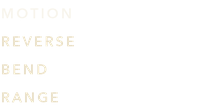
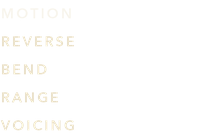
Tidepools: a Chord engine, which is what the pitch tracking was for
Play one note and it answers with a voicing: each grain is joined by two to
four more at the thirds above it. Because Tidepools knows both what you
played and what key you are in, those are the thirds the key actually has -
major on the first, fourth and fifth degrees, minor on the second, third
and sixth, diminished on the seventh. A pedal cannot do this, because it
never knows what you played.

Verified against C major: C, F and G answer major; D, E and A answer minor;
B answers diminished, all to within a hundredth of a semitone. With no
scale chosen it stacks a plain major seventh instead, so the engine still
does something musical on a drum loop.

Scatter becomes Strum - how far apart in time the notes arrive, from a
block chord to a strum across 120 ms - and Motion becomes Voicing: two
notes, three, four, and past about two thirds the upper notes open an
octave. The GRAINS page renames both as you switch, as it does for the
other engines.

Grains gained a `wait` so a voice can hold off before sounding, which is
what makes a strum rather than a chord with the notes in the wrong places.
Chord also spawns at a lower rate than a wash does, since every spawn is
two to four grains rather than one.

Appending a fifth mode is safe for anything already saved: the SDK's state
format stores both a parameter's knob position and its value, and prefers
the position only while the two still agree. Grow a choice list and they do
[…]

diff --git a/Tidepools/src/Tidepools.cpp b/Tidepools/src/Tidepools.cpp
@@ -93,7 +93,7 @@ enum ParamIndex
     kNumParams
 };
 
-enum Mode   { kCloud = 0, kBlocks, kGlide, kBubbles };
+enum Mode   { kCloud = 0, kBlocks, kGlide, kBubbles, kChord };
 enum Listen { kListenOff = 0, kListenAuto, kListenHold };
 enum Answer { kAnswerNow = 0, kAnswerBeat, kAnswerBar };
 enum KeyMode { kKeyFixed = 0, kKeyFollow };
@@ -159,6 +159,7 @@ struct Grain
     double rate = 1.0;         // buffer samples consumed per output sample (negative = reverse)
     double rateInc = 0.0;      // added to rate every sample: Glide's bend
     int    age = 0, length = 1;
+    int    wait = 0;           // samples to hold off before sounding: Chord's strum
     float  gainL = 0.5f, gainR = 0.5f;
     float  amp = 1.0f;
     bool   filtered = false;   // Bubbles
@@ -231,7 +232,8 @@ public:
         // Parameter 0 is nudged by the host on every load, so it has to be harmless.
         addParam(mpc::floatParam ("out",      "Output",   -30.0f, 6.0f,   0.0f,  "dB", 1));
         addParam(mpc::floatParam ("mix",      "Mix",       0.0f, 100.0f, 50.0f, "%", 0));
-        addParam(mpc::choiceParam("mode",     "Mode",     { "Cloud", "Blocks", "Glide", "Bubbles" }, kCloud));
+        addParam(mpc::choiceParam("mode",     "Mode",     { "Cloud", "Blocks", "Glide", "Bubbles",
+                                                            "Chord" }, kCloud));
         addParam(mpc::floatParam ("activity", "Activity",  0.0f, 100.0f, 50.0f, "%", 0));
         addParam(mpc::floatParam ("shape",    "Shape",     0.0f, 100.0f, 45.0f, "%", 0));
         addParam(mpc::floatParam ("scatter",  "Scatter",   0.0f, 100.0f, 35.0f, "%", 0));
@@ -376,7 +378,7 @@ public:
         output_.setTarget(dbToGain(get(kOutput)));
         input_.setTarget(dbToGain(get(kInput)));
 
-        const int   mode     = clampi(getInt(kMode), 0, 3);
+        const int   mode     = clampi(getInt(kMode), 0, 4);
         const int   listen   = clampi(getInt(kListen), 0, 2);
         const int   answerAt = clampi(getInt(kAnswer), 0, 2);
         const float activity = get(kActivity) * 0.01f;
@@ -534,6 +536,7 @@ public:
             for (Grain& gr : grain_)
             {
                 if (!gr.active) continue;
+                if (gr.wait > 0) { --gr.wait; continue; }
                 float s = readBuffer(0, gr.pos);
                 float sR = readBuffer(1, gr.pos);
                 if (gr.filtered)
@@ -703,7 +706,9 @@ private:
         // A bubble is a distinct pitched blip rather than a grain of wash, so the ear counts them
         // one by one and the same Activity reads as far busier. Half the density keeps the knob
         // meaning roughly the same thing whichever engine is running.
-        const float top = (mode == kBubbles) ? 38.0f : 86.0f;
+        // Bubbles are counted one by one by the ear, and every Chord spawn is two to four grains
+        // at once: both want a lower ceiling than a wash does.
+        const float top = (mode == kBubbles) ? 38.0f : (mode == kChord ? 26.0f : 86.0f);
         // 4 grains a second at the bottom of Activity, about 90 at the top - 42 for Bubbles.
         const float density = 4.0f + activity * activity * top;
         return (int)clampf(sr_ / density, 16.0f, sr_);
@@ -877,14 +882,7 @@ private:
     void spawnGrain(int mode, float shape, float scatter, float motion,
                     float spread, double baseRate, int64_t phraseLen)
     {
-        Grain* g = nullptr;
-        int oldest = -1;
-        for (int i = 0; i < kMaxGrains; ++i)
-        {
-            if (!grain_[i].active) { g = &grain_[i]; break; }
-            if (oldest < 0 || grain_[i].age > grain_[oldest].age) oldest = i;
-        }
-        if (g == nullptr) g = &grain_[oldest];   // steal the one furthest through its life
+        Grain* g = takeGrain();
 
         // Reply nudges the dice every pass, so the next answer is a variation, not a copy.
         const float drift = get(kReply) * 0.01f * (float)passIndex_ * 0.25f;
@@ -950,6 +948,14 @@ private:
                 filtered = true;
                 break;
             }
+            case kChord:
+            {
+                // One slice of the phrase, played as a voicing. Scatter is how far the grain
+                // wanders; the chord itself is built in spawnChordVoices below.
+                length = grainLength(shape);
+                start = (double)ansStart_ + (double)patternFloat() * (double)phraseLen * jitter * 0.6;
+                break;
+            }
             default:   // Cloud
             {
                 length = grainLength(shape);
@@ -979,7 +985,66 @@ private:
         g->gainR = gr;
         g->amp = amp;
         g->filtered = filtered;
+        g->wait = 0;
         if (!filtered) g->filtGain = 1.0f;
+        if (mode == kChord) spawnChordVoices(*g, motion, scatter, spread);
+    }
+
+    Grain* takeGrain()
+    {
+        int oldest = -1;
+        for (int i = 0; i < kMaxGrains; ++i)
+        {
+            if (!grain_[i].active) return &grain_[i];
+            if (oldest < 0 || grain_[i].age > grain_[oldest].age) oldest = i;
+        }
+        return &grain_[oldest];   // steal the one furthest through its life
+    }
+
+    // The ratio for the v-th note of a voicing above whatever the answer is already playing.
+    // With a scale and a detected pitch these are real diatonic thirds - the chord the key has on
+    // that degree, major or minor as it falls. Without either, a plain stacked major seventh, so
+    // the engine still does something musical on a drum loop.
+    double chordVoiceRatio(int v, float motion) const
+    {
+        const int octave = (motion > 0.66f && v >= 2) ? 12 : 0;   // wide voicings open upward
+        const int si = clampi(getInt(kScale), 0, kNumScales - 1);
+        if (si == 0 || heardMidi_ < 0.0f)
+        {
+            constexpr int semis[4] = { 0, 4, 7, 11 };
+            return (double)semitonesToRatio((float)(semis[clampi(v, 0, 3)] + octave));
+        }
+        const ScaleDef& sc = kScales[si];
+        const int root = scaleRoot();
+        const float rel = heardMidi_ - (float)root;
+        const float oct = std::floor(rel / 12.0f);
+        const int srcDeg = degreeOf(sc, rel - oct * 12.0f);
+        const int deg = srcDeg + 2 * v;            // thirds: every other degree of the scale
+        const int shift = (int)std::floor((float)deg / (float)sc.count);
+        const int within = deg - shift * sc.count;
+        const float target = (float)root + (oct + (float)shift) * 12.0f + (float)sc.notes[within];
+        const float source = (float)root + oct * 12.0f + (float)sc.notes[srcDeg];
+        return (double)semitonesToRatio(target - source + (float)octave);
+    }
+
+    // Chord spawns the rest of its voicing alongside the grain just made: same slice of the
+    // phrase, different transpositions, optionally spread in time so the chord is strummed.
+    void spawnChordVoices(const Grain& root, float motion, float scatter, float spread)
+    {
+        const int voices = clampi(2 + (int)std::lround(motion * 2.0f), 2, 4);
+        const int strum = (int)(scatter * 0.12f * sr_);
+        for (int v = 1; v < voices; ++v)
+        {
+            Grain* g = takeGrain();
+            *g = root;
+            g->rate = root.rate * chordVoiceRatio(v, motion);
+            g->rateInc = 0.0;
+            g->wait = strum * v;
+            g->age = 0;
+            const float pan = ((float)v / (float)(voices - 1) - 0.5f) * 2.0f * spread;
+            equalPowerPan(clampf(pan, -1.0f, 1.0f), g->gainL, g->gainR);
+            g->active = true;
+        }
     }
 
     int grainLength(float shape) const
@@ -1051,6 +1116,9 @@ private:
                                   kListenOff,  220, kAnswerNow,  25,  0, 0, 0,  0, 85, 0, 0 });
         prog("Freeze and Play", { 0, 60, kBubbles, 65, 35, 45, 50, 1, T16, 60, 10000, 50, 6.0f,
                                   kListenHold, 220, kAnswerNow,  30,  0, 2, 0,  0, 90, 1, 0 });
+        // Chord wants a scale to be worth anything, so this one arrives with the key already set.
+        prog("One Finger Chords", { 0, 55, kChord, 40, 55, 25, 50, 1, T4,  45, 8000, 35, 4.0f,
+                                  kListenAuto, 260, kAnswerBar,  30,  0, 1, 0, 55, 70, 0, 0 });
     }
 
     float timeFor(int division) const

diff --git a/Tidepools/art/make_skin.py b/Tidepools/art/make_skin.py
@@ -46,7 +46,7 @@ P = dict(out=0, mix=1, mode=2, activity=3, shape=4, scatter=5, motion=6, sync=7,
          tone=10, space=11, decay=12, listen=13, gap=14, answer=15, reply=16, interval=17, scale=18,
          root=19, trade=20, spread=21, hold=22, input=23, level=24, state=25, keymode=26, heard=27,
          gapsync=28)
-CHOICES = {2: ["Cloud", "Blocks", "Glide", "Bubble"], 7: ["Free", "Sync"],
+CHOICES = {2: ["Cloud", "Blocks", "Glide", "Bubble", "Chord"], 7: ["Free", "Sync"],
            13: ["Off", "Auto", "Hold"], 15: ["Now", "Beat", "Bar"],
            18: ["Off", "Major", "Minor", "Penta Maj", "Penta Min", "Dorian", "Whole Tone"],
            19: ["C", "C#", "D", "D#", "E", "F", "F#", "G", "G#", "A", "A#", "B"],
@@ -376,9 +376,9 @@ def page_grains():
     mx, my = COL_X[0] + 62 + 77, (ROW2_Y[1] + ROW2_Y[1] + BOX_H) // 2 - HEADING_H // 2 - 10
     statics = dict(headings=[], boxes=[box(c, t) for t in ROW2_Y for c in range(4)],
                    graph=False, waveform=False,
-                   images=[dict(file="head_scatter.png", frames=4, param=P["mode"],
+                   images=[dict(file="head_scatter.png", frames=5, param=P["mode"],
                                 box=(sx, sy, HEADING_W, HEADING_H)),
-                           dict(file="head_motion.png", frames=4, param=P["mode"],
+                           dict(file="head_motion.png", frames=5, param=P["mode"],
                                 box=(mx, my, HEADING_W, HEADING_H))])
     qlinks = [[P["mode"], P["activity"], P["shape"], P["scatter"]],
               [P["motion"], P["sync"], P["time"], P["spread"]],
@@ -575,9 +575,11 @@ def build():
     save("knob_small_bi.png", knob_strip(SMALL, bipolar=True))
     save("knob_large.png", knob_strip(LARGE))
     save("curve_lp.png", curve_strip("LP"))
-    # Cloud / Blocks / Glide / Bubbles, in that order.
-    save("head_scatter.png", mode_heading_strip(["SCATTER", "SHUFFLE", "SCATTER", "SCATTER"], dim=(3,)))
-    save("head_motion.png", mode_heading_strip(["MOTION", "REVERSE", "BEND", "RANGE"], dim=(0,)))
+    # Cloud / Blocks / Glide / Bubbles / Chord, in that order.
+    save("head_scatter.png",
+         mode_heading_strip(["SCATTER", "SHUFFLE", "SCATTER", "SCATTER", "STRUM"], dim=(3,)))
+    save("head_motion.png",
+         mode_heading_strip(["MOTION", "REVERSE", "BEND", "RANGE", "VOICING"], dim=(0,)))
 
     defs = [("knob overlay", G.overlay_component("KnobOverlay", G.knob_overlay_data(False), "ff111111")),
             ("knob overlay bipolar", G.overlay_component("KnobOverlay", G.knob_overlay_data(True), "ff111111")),
@@ -691,7 +693,7 @@ def build():
 # Preview (approximate: Avenir Next stands in for the MPC's Nexa, values at their defaults)
 # ------------------------------------------------------------------------------------------------
 # Where each control stands in the preview pictures: (value, text). Previews only.
-DEFAULTS = {0: (30 / 36, "0.0 dB"), 1: (0.50, "50 %"), 2: (3, None), 3: (0.50, "50 %"),
+DEFAULTS = {0: (30 / 36, "0.0 dB"), 1: (0.50, "50 %"), 2: (4, None), 3: (0.50, "50 %"),
             4: (0.45, "45 %"), 5: (0.35, "35 %"), 6: (0.30, "30 %"), 7: (1, None),
             8: (7 / 16, "1/8"), 9: (0.40, "40 %"), 10: (0.8687, "9000 Hz"), 11: (0.30, "30 %"),
             12: (0.695, "3.9 s"), 13: (1, None), 14: (0.4703, "220 ms"), 15: (1, None),
